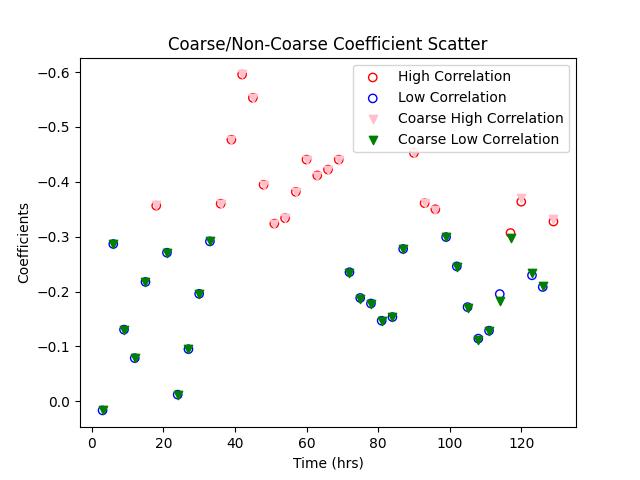
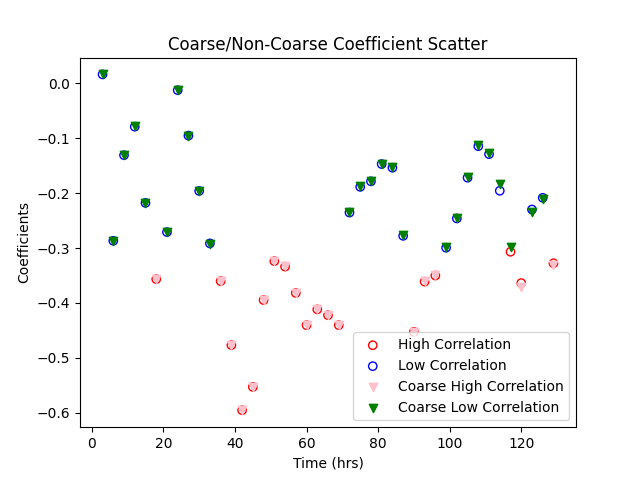
flip function

diff --git a/Scripts_HAR/Corr_Scatter.py b/Scripts_HAR/Corr_Scatter.py
@@ -65,7 +65,7 @@ def create_plot(coeff, time, coeff_coarse, time_coarse):
     
     plt.legend()
     
-    plt.gca().invert_yaxis()
+    #plt.gca().invert_yaxis()
     plt.xlabel('Time (hrs)')
     plt.ylabel('Coefficients')
     plt.title('Coarse/Non-Coarse Coefficient Scatter')
